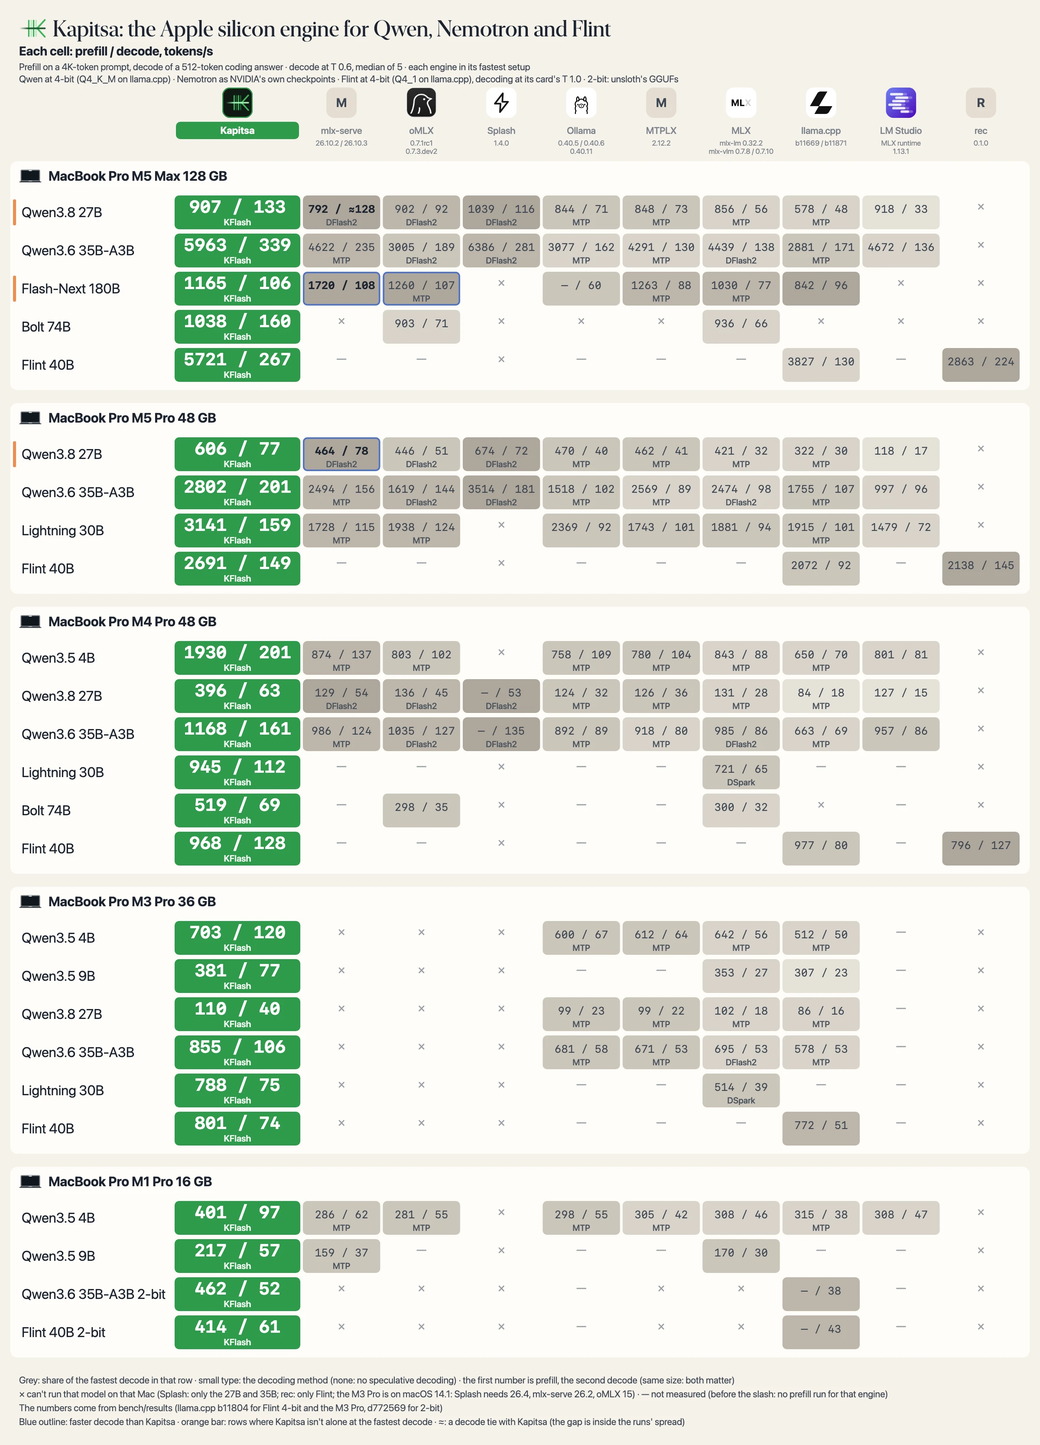
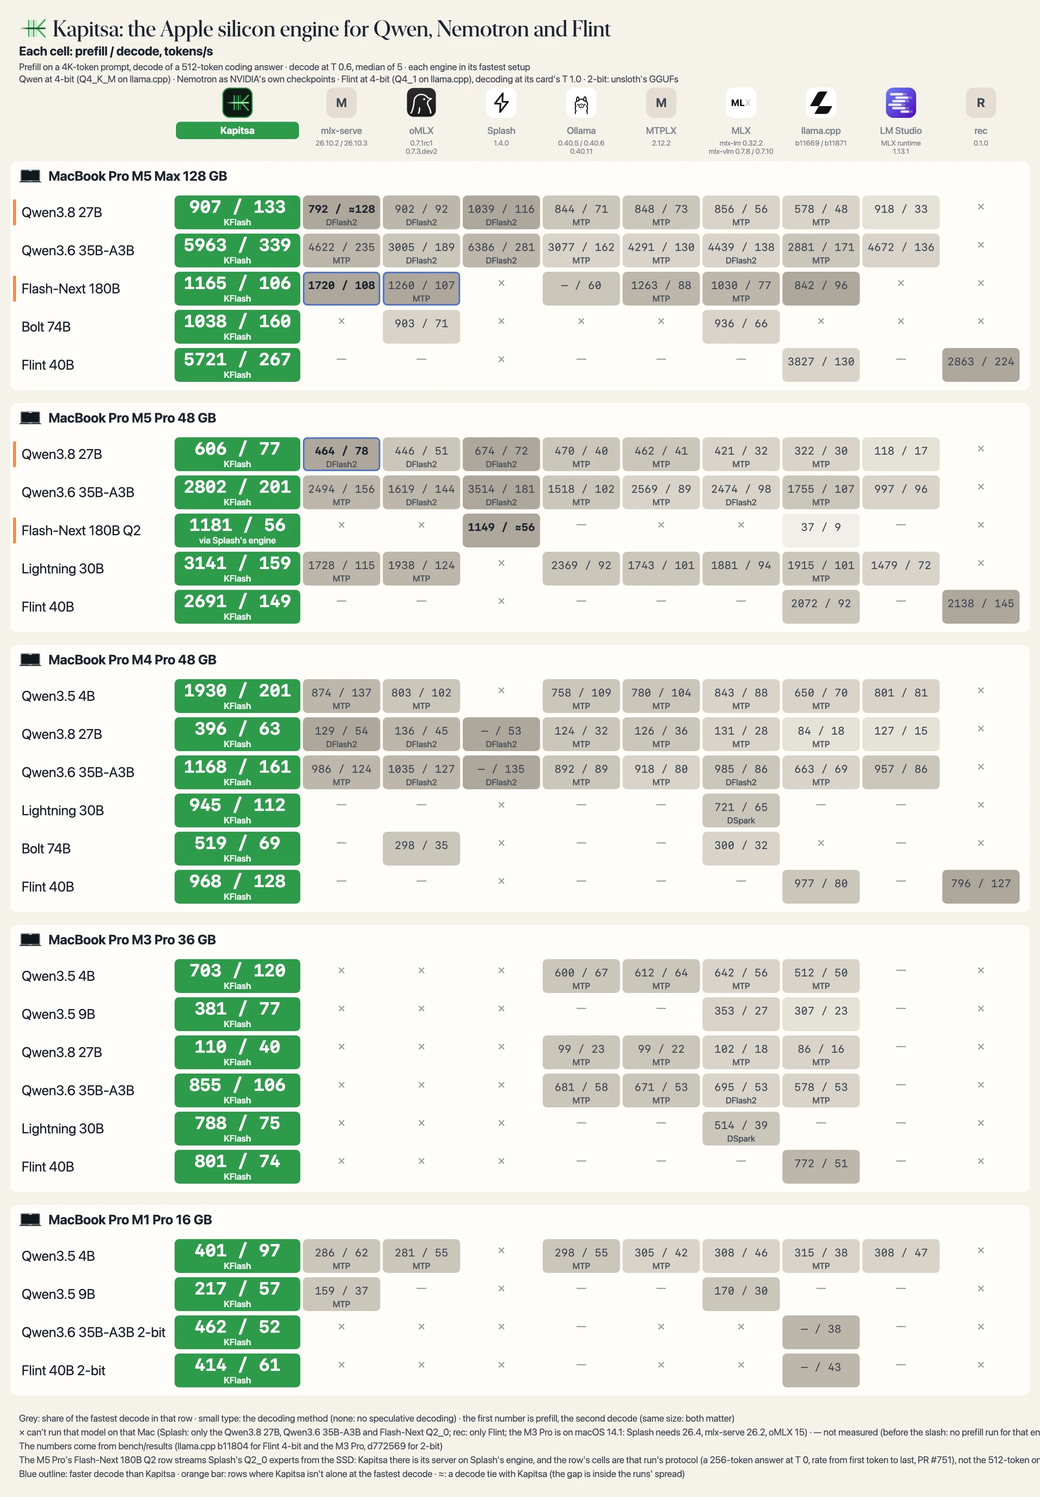
README: Flash-Next Q2_0 on the M5 Pro (32 of 38 pairs), What's new for Splash's engine and SSD offloading (docs only) (#768)
* README: the Flash-Next Q2_0 row on the M5 Pro, and What's new for Splash's engine and SSD offloading

The M5 Pro table and poster gain the 2026-10-27 four-engine Flash-Next 180B
Q2_0 row (Kapitsa 847 / 57.2, Splash 1.4.0 1,149 / 54.0, llama.cpp 37 / 9.0)
with the run's own protocol in the caption and the poster footer. The pair
count moves to 33 of 38 pairs, 34 of 38 highest; docs/benchmarks.md gains the
row's bullet and archive line. What's new gains the Splash engine entry and
the SSD-offloading entry; the poster's footer names Splash on this pack.

* tests: the Flash-Next Q2_0 row makes 39 Kapitsa cells

* README: the Flash-Next Q2_0 pair is a decode tie, so the count stays 32 of 38

Kapitsa's 57.2 against Splash's 54.0 has the gap inside both runs' spreads, which is
this page's definition of a tie; the row's Splash cell renders ≈54 and the pair is
not counted as a win. docs/benchmarks.md keeps 34 of 38 highest, 32 wins, two ties.

* docs: say the Flash-Next Q2_0 record ran its arms as blocks, not interleaved

* README: the Flash-Next Q2 row quotes Kapitsa on Splash's engine at T 0

* tools/readme_images: name PR #751 in the Q2 row's caption, store llama.cpp's 36.8 prefill

* README: say whose memory the 31.6 GiB is, and give the Q2 row's T 0.6 decode

* readme poster: name the Splash models its × stands for, not 'the Qwen models'

Splash runs the Qwen3.8 27B, the Qwen3.6 35B-A3B and Flash-Next Q2_0, and
[…]

diff --git a/tools/readme_images/readme_images.py b/tools/readme_images/readme_images.py
@@ -36,8 +36,8 @@ KAPITSA_METHOD = "KFlash"  # every Kapitsa cell's label: every Kapitsa decode pa
 
 def cell(row, engine):
     """(value, method, raw) of one cell: value is a number, None (a dash) or "x" (can't run). A Kapitsa number's method
-    is always KFlash; a rival's is None for plain decoding (no speculative decoding), so a rival's label only ever names
-    a real method"""
+    is KFlash, unless the cell names its own (the M5 Pro's Flash-Next Q2 cell decodes in Splash's engine, not Kapitsa's);
+    a rival's is None for plain decoding (no speculative decoding), so a rival's label only ever names a real method"""
     c = row["cells"].get(engine)
     if c is None or c == "x":
         return c, None, c
@@ -45,7 +45,7 @@ def cell(row, engine):
         return c, KAPITSA_METHOD if engine == "Kapitsa" else None, c
     m = c.get("method")
     if engine == "Kapitsa" and is_num(c.get("value")):
-        return c.get("value"), KAPITSA_METHOD, c
+        return c.get("value"), c.get("label") or KAPITSA_METHOD, c
     return c.get("value"), None if m == NO_SPEC else m, c
 
 
@@ -181,9 +181,10 @@ def readme_with_tables(readme, block):
     return readme[:start] + sec[:a] + block + sec[b:] + readme[end:]
 
 
-def method_label(mid, base, meth, cls, size, fill):
-    """the method under a number; a long one (no speculative decoding) on two lines in smaller type"""
-    if len(meth) <= 9:
+def method_label(mid, base, meth, cls, size, fill, width=None):
+    """the method under a number; a long one (no speculative decoding) on two lines in smaller type, unless the cell is
+    wide enough for it on one line (0.55 * size per character is a semibold sans average)"""
+    if len(meth) <= 9 or (width and len(meth) * size * 0.55 <= width - 24):
         return [text(mid, base, meth, cls, size, fill, "middle")]
     words = meth.split()
     cut = max(range(1, len(words)), key=lambda i: -abs(len(" ".join(words[:i])) - len(" ".join(words[i:]))) * 100 - i)
@@ -414,13 +415,13 @@ def poster(data, theme):
                         o.append(f'<text x="{num(mid)}" y="{num(vb)}" text-anchor="middle" fill="#FFFFFF">'
                                  f'<tspan class="mono-b" font-size="{F_COMB}">{head}{fmt(v)}</tspan></text>')
                         if meth:
-                            o += method_label(mid, mb, meth, "sans-sb", F_KMETH, t["unit"])
+                            o += method_label(mid, mb, meth, "sans-sb", F_KMETH, t["unit"], cw)
                         continue
                     o.append(f'<text x="{num(mid)}" y="{num(vb)}" text-anchor="middle" fill="#FFFFFF">'
                              f'<tspan class="mono-b" font-size="{F_KVAL}">{fmt(v)}</tspan>'
                              f'<tspan class="sans-sb" font-size="{F_UNIT}" dx="7" fill="{t["unit"]}">tok/s</tspan></text>')
                     if meth:
-                        o += method_label(mid, mb, meth, "sans-sb", F_KMETH, t["unit"])
+                        o += method_label(mid, mb, meth, "sans-sb", F_KMETH, t["unit"], cw)
                     continue
                 best = v == top or e in tie
                 o.append(rect(cx + 3, ry + 5, cw - 6, rh - 10, 10, t["greys"][lvl]))

diff --git a/tests/test_readme_images.py b/tests/test_readme_images.py
@@ -1,6 +1,7 @@
 #!/usr/bin/env python3
-"""tools/readme_images: every Kapitsa number renders as plain KFlash, whatever its record's method; a rival's plain
-decoding renders with no label. CPU only, stdlib only."""
+"""tools/readme_images: every Kapitsa number renders as plain KFlash, whatever its record's method, unless the cell names
+its own label (the M5 Pro Flash-Next Q2 cell runs Splash's engine); a rival's plain decoding renders with no label. CPU
+only, stdlib only."""
 import importlib.util, json, os
 
 HERE = os.path.dirname(os.path.abspath(__file__))
@@ -13,6 +14,7 @@ for m in ("KFlash", "DFlash2", "DSpark", "LiLiCorr", "MTP", "prompt lookup", "no
     assert ri.cell(row, "Kapitsa")[1] == "KFlash", m
     assert ri.cell(row, "llama.cpp")[1] == (None if m == "no spec" else m), m   # a rival keeps its own method
 assert ri.cell({"model": "m", "cells": {"Kapitsa": 100}}, "Kapitsa")[1] == "KFlash"   # a bare number too
+assert ri.cell({"model": "m", "cells": {"Kapitsa": {"value": 100, "label": "via Splash's engine"}}}, "Kapitsa")[1] == "via Splash's engine"   # a cell may name its own
 assert ri.cell({"model": "m", "cells": {"Kapitsa": "x"}}, "Kapitsa")[1] is None       # × and — carry no label
 
 # every Kapitsa number in readme_images.json (poster, tables and header) renders KFlash
@@ -24,10 +26,14 @@ for r in rows:
     v, label, _ = ri.cell(r, "Kapitsa")
     if ri.is_num(v):
         n += 1
-        assert label == "KFlash", (r["model"], label)
-assert n == 38, n   # every Kapitsa number in readme_images.json; update when cells are added or removed
+        c = r["cells"]["Kapitsa"]
+        want = (c.get("label") if isinstance(c, dict) else None) or "KFlash"
+        assert label == want, (r["model"], label)
+assert n == 39, n   # every Kapitsa number in readme_images.json; update when cells are added or removed
+labelled = [r for r in rows if isinstance(r["cells"]["Kapitsa"], dict) and r["cells"]["Kapitsa"].get("label")]
+assert [r["cells"]["Kapitsa"]["label"] for r in labelled] == ["via Splash's engine"], labelled   # only the Flash-Next Q2 cell runs Splash's engine
 assert all(h["method"] == "KFlash" for h in ri.header_rows(data) if h["kap"] and h["value"] is not None)
 hr = ri.header_rows(data)   # the header SVGs' <desc> (and the README alt text) name Kapitsa's method as KFlash
 assert "Kapitsa with KFlash " in ri.header_desc(data, hr), ri.header_desc(data, hr)
 assert "no spec" not in ri.header_desc(data, hr), ri.header_desc(data, hr)
-print(f"test_readme_images: ok ({n} Kapitsa cells, all KFlash)")
+print(f"test_readme_images: ok ({n} Kapitsa cells)")

diff --git a/README.md b/README.md
@@ -10,24 +10,26 @@ Kapitsa is an inference engine for Apple silicon that runs Qwen, Nemotron and Re
 
 ## Benchmarks
 
-Kapitsa has the fastest decode in 32 of the 37 model and Mac pairs measured against nine engines ([how each number was measured](docs/benchmarks.md#how-the-readme-poster-was-measured)).
+Kapitsa has the fastest decode in 32 of the 38 model and Mac pairs measured against nine engines ([how each number was measured](docs/benchmarks.md#how-the-readme-poster-was-measured)).
 
 <picture>
   <source media="(prefers-color-scheme: dark)" srcset="docs/assets/benchmarks-dark.webp">
   <img alt="Poster of prefill / decode speed for Kapitsa and nine other engines on a MacBook Pro M5 Max, M5 Pro, M4 Pro, M3 Pro and M1 Pro; the numbers are in the poster and in the Models section's tables" src="docs/assets/benchmarks-light.webp">
 </picture>
 
-<sub>**Each cell reads prefill / decode in tokens per second.** Prefill is a 4K-token prompt, decode a 512-token answer at T 0.6 (Flint at its card's T 1.0). × cannot run that model · — not measured. How these were measured, run dates and flags: [docs/benchmarks.md](docs/benchmarks.md#how-the-readme-poster-was-measured).</sub>
+<sub>**Each cell reads prefill / decode in tokens per second.** Prefill is a 4K-token prompt, decode a 512-token answer at T 0.6 (Flint at its card's T 1.0). The M5 Pro's Flash-Next 180B Q2 row is a 256-token answer at T 0, counted from the first token to the last, on that run's own 4,074-token prompt, and its Kapitsa column is Kapitsa's server on Splash's engine ([record](bench/results/2026-10-28-m5-pro-flash-next-engines/README.md)). × cannot run that model · — not measured. How these were measured, run dates and flags: [docs/benchmarks.md](docs/benchmarks.md#how-the-readme-poster-was-measured).</sub>
 
 The poster's numbers, and the models it leaves out, are in each Mac's table under [Models](#models). Every recorded run, with its Mac, model, prefill and decode speed, is in the [benchmark table](bench/README.md). Measure your Mac: `kapitsa bench --submit` adds it to the [community results](bench/community/RESULTS.md). Another engine faster on your Mac? `kapitsa bench compare` ranks every engine you have installed, and `--report` writes a Markdown report.
 
 ## 🔥 What's new
 
+- [2026/10] 🌊 **Kapitsa runs Splash's engine: `kapitsa serve --engine splash`** puts Inco's Splash behind Kapitsa's server — the chat page, the OpenAI and Anthropic APIs and streaming, Splash's model folders and `--check` — the Splash backend stack #738-#746 ([capabilities](#splashs-engine), [55.9 tok/s](bench/results/2026-10-28-m5-pro-flash-next-engines/README.md)).
+- [2026/10] 🗄 **A 180B model on a 48 GB Mac**: Qwen3.8-Flash-Next's Q2_0 experts stream from the SSD; through `--engine splash` the model peaks at 31.6 GiB wired with no swap growth and memory pressure 1, where Kapitsa's own engine at its 24 GB store reached memory pressure 4 ([numbers](bench/results/2026-10-28-m5-pro-flash-next-engines/README.md), [#751](https://github.com/nace-ai/kapitsa/pull/751)).
 - [2026/10] 🧩 **Flash-Next fits a 64 GB Mac**: `flash-next:64gb` runs Sushi's 2-bit EXL3 experts, 36.7 GB of weights in memory and 69.6 GB to download ([variants](docs/usage.md#models-and-downloads)).
 - [2026/10] 🪶 **Flint on a 16 GB Mac: 61 tok/s against llama.cpp's 43 on the same 2-bit GGUF** ([numbers](docs/benchmarks.md#recursive-flint-40b-a25b-with-2-bit-experts-m1-pro-16-gb-2026-10-22)).
 - [2026/10] 🪨 **Recursive's Flint 40B-A2.5B: decodes faster than llama.cpp, and on the M4 Pro reads prompts faster than rec 0.1.0** ([M4 Pro](docs/benchmarks.md#recursive-flint-40b-a25b-m4-pro-2026-10-22), [M5 Pro](docs/benchmarks.md#recursive-flint-40b-a25b-m5-pro-2026-10-22)).
 - [2026/10] 🚀 **KFlash: tree speculative decoding** ([how it works](docs/kflash.md)).
-- [2026/10] 🏆 **The fastest decode in 32 of 37 model and Mac pairs** against nine engines, up to 2.9× MLX ([poster](#benchmarks)).
+- [2026/10] 🏆 **The fastest decode in 32 of 38 model and Mac pairs** against nine engines, up to 2.9× MLX ([poster](#benchmarks)).
 - [2026/10] 🤝 **KFlash budget: three requests share one verify pass**, up to +23% total throughput on the 27B ([#207](https://github.com/nace-ai/kapitsa/pull/207), [KFlash](docs/kflash.md#limitations)).
 - [2026/10] ⚡ **QMT prefill: 25% off the time to first token on the M5 Pro** (Qwen3.6 35B-A3B at 4K, 20% at 16K) with the Metal 4 matrix units ([measured](docs/usage.md#environment-variables)).
 - [2026/10] 💾 **SSD prefix cache: a 16K follow-up after a restart starts in 0.16 s instead of 17 s** (`--disk-cache`).
@@ -129,7 +131,7 @@ The catalog models measured on each Mac, against the engines that run them: one 
 </details>
 
 <details>
-<summary><b>MacBook Pro (16-inch, 2026) · M5 Pro · 48 GB</b> · 6 models</summary>
+<summary><b>MacBook Pro (16-inch, 2026) · M5 Pro · 48 GB</b> · 7 models</summary>
 
 **Qwen and Nemotron**
 
@@ -137,6 +139,7 @@ The catalog models measured on each Mac, against the engines that run them: one 
 | --- | ---: | ---: | ---: | ---: | ---: | ---: | ---: | ---: | ---: |
 | **Qwen3.8-27B** · `27b`<br><sub>dense · 4-bit, 20.2 GB</sub> | 606 / 77<br><sub>KFlash</sub> | 🟩 464 / **78**<br><sub>DFlash2</sub> | 446 / 51<br><sub>DFlash2</sub> | 674 / 72<br><sub>DFlash2</sub> | 470 / 40<br><sub>MTP</sub> | 462 / 41<br><sub>MTP</sub> | 421 / 32<br><sub>MTP</sub> | 322 / 30<br><sub>MTP</sub> | 118 / 17 |
 | **Qwen3.6-35B-A3B** · `35b`<br><sub>MoE, 3B active · 4-bit, 22.1 GB</sub> | 🟩 2802 / **201**<br><sub>KFlash</sub> | 2494 / 156<br><sub>MTP</sub> | 1619 / 144<br><sub>DFlash2</sub> | 3514 / 181<br><sub>DFlash2</sub> | 1518 / 102<br><sub>MTP</sub> | 2569 / 89<br><sub>MTP</sub> | 2474 / 98<br><sub>DFlash2</sub> | 1755 / 107<br><sub>MTP</sub> | 997 / 96 |
+| **Qwen3.8-Flash-Next 180B-A7B** · `flash-next`<br><sub>MoE, 7B active · Q2_0 experts streamed from the SSD</sub> | 🟩 1181 / **56**<br><sub>via Splash's engine · 0.2.23 · Splash 1.4.0</sub> | × | × | 1149 / **≈56** | — | × | × | 37 / 9<br><sub>c7474afc</sub> | — |
 | **Nemotron Dory1.0 4B** · `dory`<br><sub>looped dense · NVFP4, 3.2 GB</sub> | 🟩 **70**<br><sub>KFlash</sub> | × | × | × | × | × | 53 | 13 | × |
 | **Nemotron 3.5 Lightning 30B-A3B** · `lightning`<br><sub>hybrid MoE, 3B active · NVFP4, 22.9 GB</sub> | 🟩 3141 / **159**<br><sub>KFlash</sub> | 1728 / 115<br><sub>MTP</sub> | 1938 / 124<br><sub>MTP</sub> | × | 2369 / 92 | 1743 / 101 | 1881 / 94 | 1915 / 101<br><sub>MTP</sub> | 1479 / 72 |
 | **Nemotron 3.5 Bolt 74B-A9B** · `bolt`<br><sub>hybrid MoE, 9B active · 2/4/8-bit mix, 25.1 GB</sub> | 🟩 **79**<br><sub>KFlash</sub> | × | 39 | × | × | × | 41 | × | × |
@@ -147,7 +150,7 @@ The catalog models measured on each Mac, against the engines that run them: one 
 | --- | ---: | ---: | ---: |
 | **Recursive Flint 40B-A2.5B** · `flint`<br><sub>MoE, 2.5B active · 4-bit, 22.6 GB</sub> | 🟩 2691 / **149**<br><sub>KFlash</sub> | 2072 / 92 | 2138 / 145 |
 
-<sub>Qwen3.8-Flash-Next 180B-A7B does not fit in 48 GB, so both engines stream its experts from the SSD. With Q2_0 weights on both and Kapitsa's expert store pinned at 24 GB (the auto size here is about 29.9 GB, but four runs at that size were stopped at memory pressure), Kapitsa's prefill is behind on short prompts, level at 4K and 16K and 2.7% ahead at 32K: not the fastest everywhere (correction, 24 Oct: on Kapitsa's warm second leg alone its prefill is 13.5-14.5% behind at 1K, level at 4K and a few percent ahead at 16K and 32K; [numbers and caveats](docs/benchmarks.md#qwen38-flash-next-streamed-from-the-ssd-kapitsa-against-llamacpp-m5-pro-48-gb-2026-10-24)).</sub>
+<sub>Qwen3.8-Flash-Next 180B-A7B does not fit in 48 GB, so both engines stream its experts from the SSD. With Q2_0 weights on both and Kapitsa's expert store pinned at 24 GB (the auto size here is about 29.9 GB, but four runs at that size were stopped at memory pressure), Kapitsa's prefill is behind on short prompts, level at 4K and 16K and 2.7% ahead at 32K: not the fastest everywhere (correction, 24 Oct: on Kapitsa's warm second leg alone its prefill is 13.5-14.5% behind at 1K, level at 4K and a few percent ahead at 16K and 32K; [numbers and caveats](docs/benchmarks.md#qwen38-flash-next-streamed-from-the-ssd-kapitsa-against-llamacpp-m5-pro-48-gb-2026-10-24)). The Flash-Next 180B Q2 row is a separate 2026-10-27 four-engine run, PR #751 ([record](bench/results/2026-10-28-m5-pro-flash-next-engines/README.md)): its Kapitsa column is Kapitsa's server on Splash's engine (`--engine splash`, 0.2.23 with Splash 1.4.0 underneath), and its decode is a 256-token answer at T 0, not this table's 512-token answer at T 0.6, counted from the first token to the last over 10 requests for Kapitsa, 10 for Splash and 2 for llama.cpp; its 4K prefill is prompt tokens over time to first token on that run's own 4,074-token prompt, against this table's 4,133. At T 0 Kapitsa's decode ties Splash's (55.9 against 55.5, the gap inside both runs' spreads) and its 4K prefill reads 1.03x Splash's. Kapitsa's own engine ran in the same record too, with MTP depth 2 and its expert store pinned at 24 GB, not sized from free memory: 847 prefill and 53.7 decode at T 0, but three of its legs were stopped at memory-pressure level 4, with up to 4.5 GB of swap, late in the leg (16K prefill or turn 2), so its 16K and turn-2 cells have 9 runs against 12. Ollama and LM Studio were not run on that Q2_0 pack, so their cells are dashes, and mlx-serve, oMLX, MTPLX and MLX have no pack of this model that fits 48 GB.</sub>
 
 </details>
 

diff --git a/docs/benchmarks.md b/docs/benchmarks.md
@@ -16,24 +16,27 @@ where each of their numbers comes from and how it was measured.
 
 ## At a glance
 
-Decode is the writing speed of a 512-token coding answer at T 0.6 (Flint at its card's T 1.0). "Lead" is Kapitsa's
-decode over the next fastest engine on that model.
+Decode is the writing speed of a 512-token coding answer at T 0.6 (Flint at its card's T 1.0; the M5 Pro's Flash-Next
+Q2 row is a 256-token answer at T 0, [record](../bench/results/2026-10-28-m5-pro-flash-next-engines/README.md)). "Lead" is
+Kapitsa's decode over the next fastest engine on that model.
 
 | Mac | Kapitsa's decode lead | Where another engine is ahead |
 | --- | --- | --- |
 | [M5 Max, 128 GB](#m5-max) | 35B-A3B **1.21x** Splash · Bolt **2.3x** oMLX · Flint 1.2x rec (1.06-1.25x over the night's runs) · Lightning 1.41x · Super-VL 1.42x · Dory 1.57x | 27B decode: level with mlx-serve, 133 against 128, inside the runs' spread. Flash-Next decode: mlx-serve 108 against 106. Prefill: Splash on the 27B (1,039 against 907) and the 35B-A3B (6,386 against 5,963); mlx-serve, oMLX and MTPLX on Flash-Next |
-| [M5 Pro, 48 GB](#m5-pro) | 35B-A3B **1.11x** Splash · Lightning 1.28x · Bolt 1.93x · Dory 1.32x · Flint 1.03x rec | 27B decode: mlx-serve 78 against 77, inside the runs' spread. Prefill: Splash on the 35B-A3B (1.25x) and the 27B (1.11x) |
+| [M5 Pro, 48 GB](#m5-pro) | 35B-A3B **1.11x** Splash · Lightning 1.28x · Bolt 1.93x · Dory 1.32x · Flint 1.03x rec | Flash-Next Q2_0 decode: level with Splash, 56 against 56 at T 0, inside the runs' spread. 27B decode: mlx-serve 78 against 77, inside the runs' spread. Prefill: Splash on the 35B-A3B (1.25x) and the 27B (1.11x) |
 | [M4 Pro, 48 GB](#m4-pro) | 4B **1.47x** mlx-serve · 27B 1.17x · 35B-A3B 1.19x Splash · Lightning 1.72x · Bolt 1.97x · Dory 1.33x · Flint 1.01x rec | Flint prefill: llama.cpp 977 against 968 |
 | [M3 Pro, 36 GB](#m3-pro) | 4B 1.79x · 9B **2.90x** · 27B 1.77x · 35B-A3B 1.84x · Lightning 1.92x · Flint 1.45x · Dory 1.21x | Nano 4B decode: llama.cpp 34.9 against 34.4. Nano 9B v2: mlx-lm 24.9 against 20.9 (both on lighter 4-bit files) |
 | [M1 Pro, 16 GB](#m1-pro) | 4B 1.56x · 9B 1.54x · 35B-A3B 2-bit 1.37x · Flint 2-bit 1.42x · Dory 1.30x · Nano 4B 1.32x · Nano 9B v2 1.39x | — |
 
-Kapitsa reads the highest decode in 33 of the 37 model and Mac pairs, and the 32 in the headline is the wins count:
-one of the 33 is a tie (≈) that is not counted as a win. A tie is the row's fastest rival, the one the tables pair
-with Kapitsa, standing inside each other's measured range: the M5 Max's Qwen3.8 27B row (133 against mlx-serve's 128).
-Counted over the poster's and the tables' rows (`tools/readme_images/readme_images.json`): the union of the 38 rows
-where Kapitsa has a decode cell, less the M3 Pro 36 GB's Bolt 74B row, which has no rival, gives 37 pairs. The five
-Kapitsa does not win are in the column above: that tie, the Flash-Next and M5 Pro 27B losses to mlx-serve, and the M3
-Pro's Nano 4B and Nano 9B v2. Each pair
+Kapitsa reads the highest decode in 34 of the 38 model and Mac pairs, and the 32 in the headline is the wins count:
+two of the 34 are ties (≈) that are not counted as wins. A tie is the row's fastest rival, the one the tables pair
+with Kapitsa, standing inside each other's measured range: the M5 Max's Qwen3.8 27B row (133 against mlx-serve's 128)
+and the M5 Pro's Flash-Next 180B Q2_0 row (55.9 against Splash's 55.5 at T 0, the gap inside both runs' spreads; at
+T 0.6 the same arms read 52.1 against Splash's 54.0, also inside the spreads).
+Counted over the poster's and the tables' rows (`tools/readme_images/readme_images.json`): the union of the 39 rows
+where Kapitsa has a decode cell, less the M3 Pro 36 GB's Bolt 74B row, which has no rival, gives 38 pairs. The six
+Kapitsa does not win are in the column above: those two ties, the M5 Max's Flash-Next and the M5 Pro's 27B losses to
+mlx-serve, and the M3 Pro's Nano 4B and Nano 9B v2. Each pair
 compares cells in one power mode. Every cell is the build under it, so the count describes the builds those cells ran,
 not the current binary: a later build that moves a row makes a new measurement, and the poster is re-measured rather
 than re-read. The M5 Max Flash-Next pair (Kapitsa 106 against mlx-serve 108) was checked from the
@@ -182,6 +185,18 @@ cells are newer.
   faster** (1.25x Kapitsa's 35B-A3B cell at 4K, 1.11x its 27B cell); Kapitsa writes faster (11% and 6%).
 - **Lightning:** Kapitsa 3,141 / 159, one run on 2026-10-21 ([results](../bench/results/2026-10-21-m5pro-48gb/README.md)).
   **Dory:** per-loop KV, 70 tok/s ([results](../bench/results/2026-10-22-m5pro-dory/README.md)).
+- **Qwen3.8-Flash-Next 180B-A7B, Q2_0 streamed from the SSD.** Kapitsa 1,181 / 55.9 on Splash's engine
+  (`--engine splash`, 0.2.23 with Splash 1.4.0 underneath, `ff6151c8`), Splash 1.4.0 1,149 / 55.5 and llama.cpp
+  36.8 / 9.0 (`c7474afc`): the 2026-10-27 four-engine run ([results](../bench/results/2026-10-28-m5-pro-flash-next-engines/README.md)),
+  the run behind the poster's Q2 row and the M5 Pro table under [Models](../README.md#models), [#751](https://github.com/nace-ai/kapitsa/pull/751). At T 0 **Kapitsa's decode
+  is level with Splash's** (55.9 against 55.5, the gap inside both runs' spreads) and **its 4K prefill reads 1.03x
+  Splash's**; the record ran the arms as blocks, not interleaved. The row is not this page's protocol: its decode rate
+  is a 256-token answer at T 0, counted from the first token to the last, and its 4K prompt is 4,074 tokens against
+  4,133. Kapitsa's own engine ran in the same record, with MTP depth 2 and its expert store pinned at 24 GB: 847
+  prefill and 53.7 decode at T 0, and three of its legs were stopped at memory-pressure level 4, with up to 4.5 GB of
+  swap, late in the leg (16K prefill or turn 2), so its 16K and turn-2 cells have 9 runs against 12; neither engine's
+  run is an auto-size result. Ollama and LM Studio were not run on the pack, and the MLX engines have no pack of this
+  model that fits 48 GB. Nothing here is re-measured from the 2026-10-24 bench.
 - **Flint:** see [Flint on the M5 Pro](#recursive-flint-40b-a25b-m5-pro-2026-10-22).
 - Settings: MLX is mlx-vlm with MTP on the 4B and 27B and with DFlash2 on the 35B-A3B, mlx-lm on Lightning and Dory,
   mlx-vlm on Bolt; oMLX MTP on Lightning and DFlash2 on the 27B and 35B-A3B; mlx-serve MTP except its DFlash2 draft tree
@@ -465,3 +480,4 @@ result files and READMEs stay in [bench/results](../bench/results/); each row li
 | 2026-10-22 | M5 Pro | Flint on Kapitsa before #345: main `6c13588`, then with #340 (expert GEMMs on the tensor units) | [flint-m5pro](../bench/results/2026-10-22-flint-m5pro/README.md), [flint-m5pro-qtm](../bench/results/2026-10-22-flint-m5pro-qtm/README.md) |
 | 2026-10-22 | M3 Pro | Flint on battery (superseded by the AC run) | [2026-10-22-flint-m3pro](../bench/results/2026-10-22-flint-m3pro/README.md) |
 | 2026-10-23 | M5 Pro | The 35B-A3B after #362 and the 27B after #360 | [2026-10-23-m5-pro-35b-27b](../bench/results/2026-10-23-m5-pro-35b-27b/README.md) |
+| 2026-10-27 | M5 Pro | Flash-Next 180B Q2_0 streamed from the SSD: Kapitsa on Splash's engine, plain Splash 1.4.0, Kapitsa's own engine and llama.cpp, with memory footprints | [2026-10-28-m5-pro-flash-next-engines](../bench/results/2026-10-28-m5-pro-flash-next-engines/README.md) |
